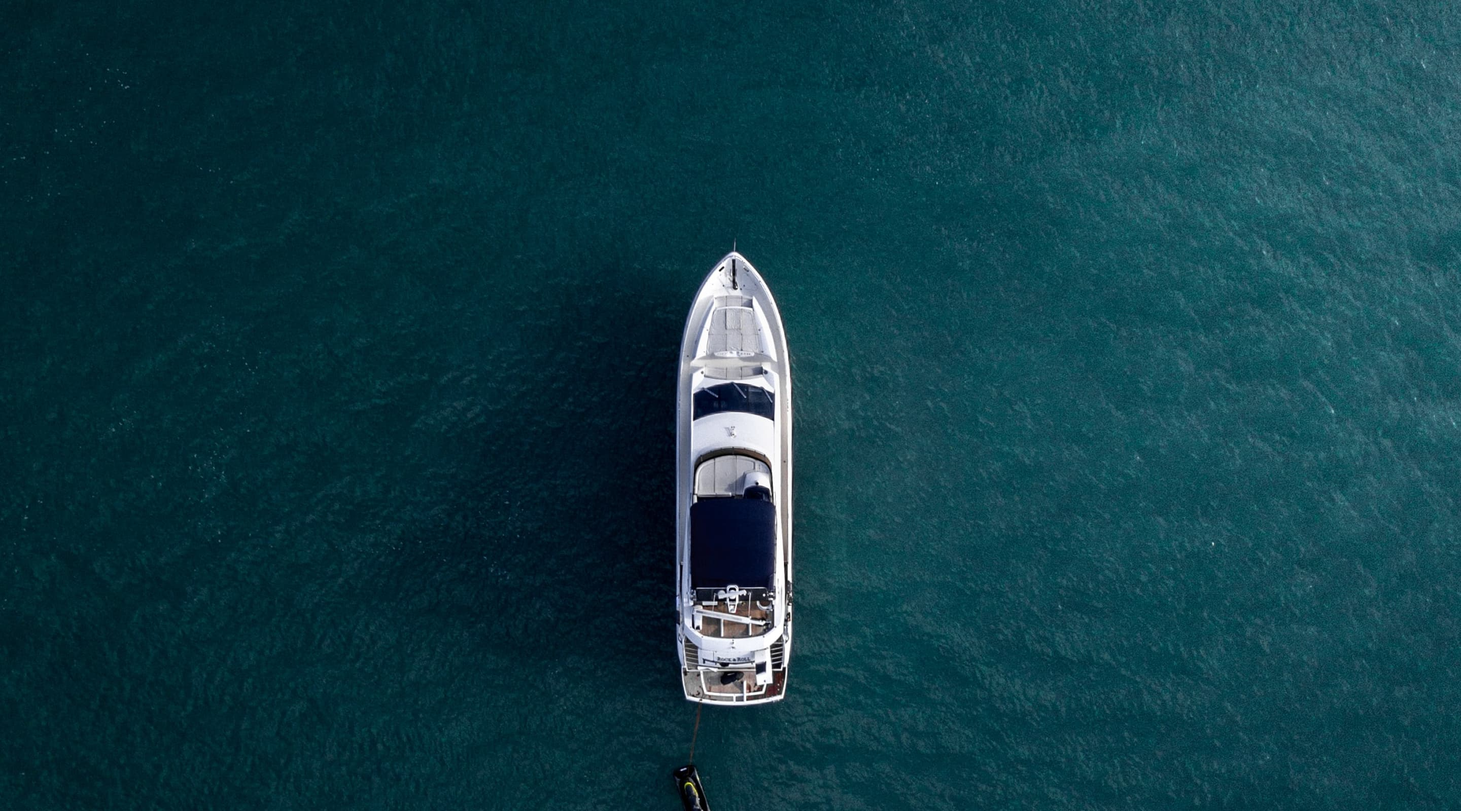
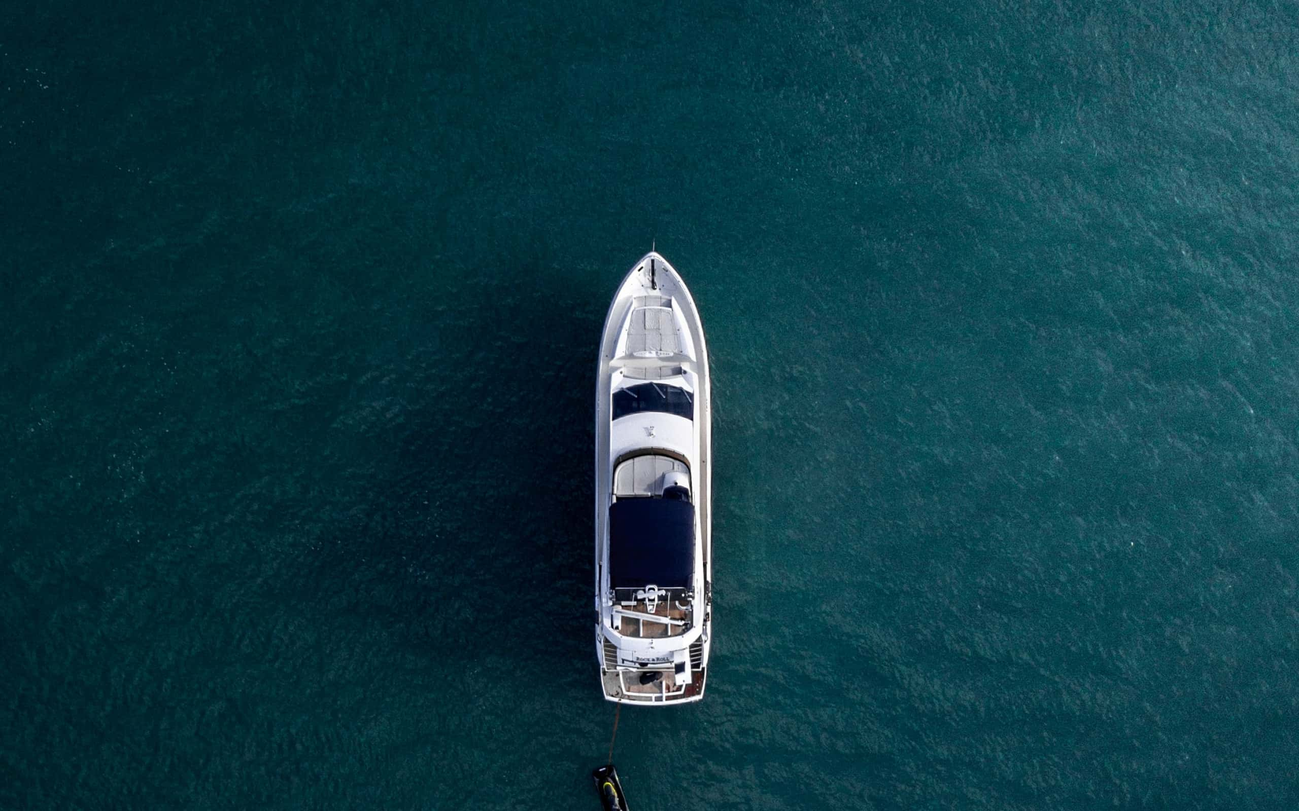
header check

diff --git a/src/css/header.css b/src/css/header.css
@@ -12,8 +12,14 @@
     padding-top: 32px;
     background-repeat: no-repeat;
     background-position: center;
-    background-size: cover;
+    background-image:
+            linear-gradient(360deg,
+                rgba(17, 19, 31, 0.8) 15.05%,
+                rgba(17, 19, 31, 0.8) 75.3%,
+                rgba(17, 19, 31, 0.8) 98.27%),
+            url('/images/header/hero-bg-mob.jpg');
     border: none;
+    background-size: auto;   
     height: 812px;
 }
 
@@ -64,27 +70,18 @@
     stroke: #1b414b;
 }
 
-@media screen and (max-width: 767px) {
+@media screen and (max-width: 767px) and (min-resolution: 2x) {
     .header-hero-div {
         background-image:
             linear-gradient(360deg,
                 rgba(17, 19, 31, 0.8) 15.05%,
                 rgba(17, 19, 31, 0.8) 75.3%,
                 rgba(17, 19, 31, 0.8) 98.27%),
-            url('/img/header/hero-bg-mob.jpg');
-    }
+            url('/images/header/hero-bg-mob@2x.jpg');
 
-    @media (min-resolution: 2x) {
-        .header-hero-div {
-            background-image:
-                linear-gradient(360deg,
-                    rgba(17, 19, 31, 0.8) 15.05%,
-                    rgba(17, 19, 31, 0.8) 75.3%,
-                    rgba(17, 19, 31, 0.8) 98.27%),
-                url('/img/header/hero-bg-mob@2x.jpg');
-        }
     }
 }
+
 
 @media screen and (min-width: 768px) {
     .header-hero-div {
@@ -93,7 +90,12 @@
                 rgba(17, 19, 31, 0.8) 15.05%,
                 rgba(17, 19, 31, 0.8) 75.3%,
                 rgba(17, 19, 31, 0.8) 98.27%),
-            url('/img/header/hero-bg-tab.jpg');
+            url('/images/header/hero-bg-tab.jpg');        
+        background-size: cover;
+        width:100%;
+        max-width: 768px;
+        height: 962px;
+        border: none;
     }
 
     @media (min-resolution: 2x) {
@@ -103,14 +105,8 @@
                     rgba(17, 19, 31, 0.8) 15.05%,
                     rgba(17, 19, 31, 0.8) 75.3%,
                     rgba(17, 19, 31, 0.8) 98.27%),
-                url('/img/header/hero-bg-tab@2x.jpg');
+                url('/images/header/hero-bg-tab@2x.jpg');
         }
-    }
-
-    .header-hero-div {
-        max-width: 768px;
-        height: 962px;
-        border: none;
     }
 
     .header-block {
@@ -209,7 +205,10 @@
                 rgba(17, 19, 31, 0.8) 15.05%,
                 rgba(17, 19, 31, 0.8) 75.3%,
                 rgba(17, 19, 31, 0.8) 98.27%),
-            url('/img/header/hero-bg-dt.jpg');
+            url('/images/header/hero-bg-dt.jpg');
+        width: 100%;
+        max-width: 1280px;
+        height: 800px;
     }
 
     @media (min-resolution: 2x) {
@@ -219,13 +218,8 @@
                     rgba(17, 19, 31, 0.8) 15.05%,
                     rgba(17, 19, 31, 0.8) 75.3%,
                     rgba(17, 19, 31, 0.8) 98.27%),
-                url('/img/header/hero-bg-dt@2x.jpg');
+                url('/images/header/hero-bg-dt@2x.jpg');
         }
-    }
-
-    .header-hero-div {
-        max-width: 1280px;
-        height: 800px;
     }
 
     .header-block {

diff --git a/src/partials/mob-menu.html b/src/partials/mob-menu.html
@@ -11,13 +11,13 @@
     <nav class="mobile-menu-nav">
       <ul class="mobile-menu-nav-list">
         <li class="mobile-menu-nav-item">
-          <a class="mobile-menu-nav-link" href="#">About</a>
+          <a class="mobile-menu-nav-link" href="#about-us">About</a>
         </li>
         <li class="mobile-menu-nav-item">
-          <a class="mobile-menu-nav-link" href="#">Yachts</a>
+          <a class="mobile-menu-nav-link" href="#our-yachts">Yachts</a>
         </li>
         <li class="mobile-menu-nav-item">
-          <a class="mobile-menu-nav-link" href="#">Reviews</a>
+          <a class="mobile-menu-nav-link" href="#reviews">Reviews</a>
         </li>
       </ul>
     </nav>
